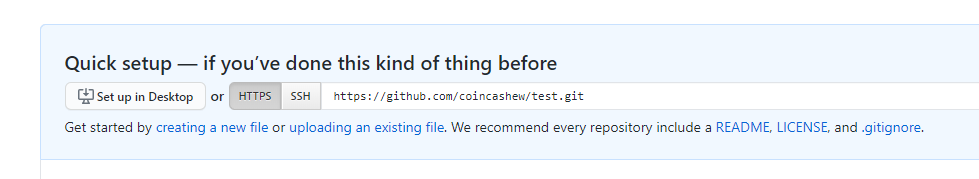
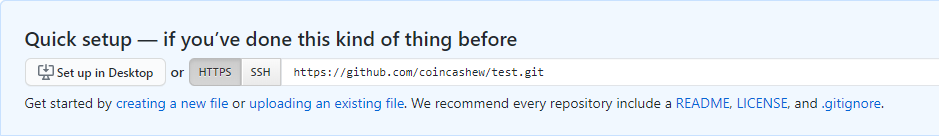
Fix procedure formatting

diff --git a/coins/overview-ada/guide-how-to-build-a-haskell-stakepool-node/part-iv-administration/upgrading-a-node.md b/coins/overview-ada/guide-how-to-build-a-haskell-stakepool-node/part-iv-administration/upgrading-a-node.md
@@ -32,8 +32,7 @@ Do not confuse Andrew Westberg's CNCLI utilities with the [`cncli.sh`](https://c
 
 **To upgrade Andrew Westberg's CNCLI binary:**
 
-1\. In a terminal window, type the following commands:
-
+1. In a terminal window, type the following commands:
 ```bash
 RELEASETAG=$(curl -s https://api.github.com/repos/AndrewWestberg/cncli/releases/latest | jq -r .tag_name)
 VERSION=$(echo ${RELEASETAG} | cut -c 2-)
@@ -42,8 +41,7 @@ curl -sLJ https://github.com/AndrewWestberg/cncli/releases/download/${RELEASETAG
 sudo tar xzvf /tmp/cncli-${VERSION}-x86_64-unknown-linux-gnu.tar.gz -C /usr/local/bin/
 ```
 
-2\. To confirm that the new version of the CNCLI binary is installed, type:
-
+2. To confirm that the new version of the CNCLI binary is installed, type:
 ```
 cncli -V
 ```
@@ -60,48 +58,41 @@ In the [Common `env`](https://cardano-community.github.io/guild-operators/Script
 
 **To upgrade the Guild LiveView tool manually:**
 
-1\. To navigate to the folder where Guild LiveView is located, type the following command in a terminal window:
-
+1. To navigate to the folder where Guild LiveView is located, type the following command in a terminal window:
 ```bash
 cd ${NODE_HOME}
 ```
 
-2\. To back up existing Guild LiveView script files, type:
-
+2. To back up existing Guild LiveView script files, type:
 ```bash
 mv gLiveView.sh gLiveView.sh.bak
 mv env env.bak
 ```
 
-3\. To download the latest Guild LiveView script files, type:
-
+3. To download the latest Guild LiveView script files, type:
 ```bash
 curl -s -o gLiveView.sh https://raw.githubusercontent.com/cardano-community/guild-operators/master/scripts/cnode-helper-scripts/gLiveView.sh
 curl -s -o env https://raw.githubusercontent.com/cardano-community/guild-operators/master/scripts/cnode-helper-scripts/env
 ```
 
-4\. To set file permissions on the `gLiveView.sh` file that you downloaded in step 3, type:
-
+4. To set file permissions on the `gLiveView.sh` file that you downloaded in step 3, type:
 ```bash
 chmod 755 gLiveView.sh
 ```
 
-5\. To set the `CONFIG` and `SOCKET` user variables in the `env` file that you downloaded in step 3, type:
-
+5. To set the `CONFIG` and `SOCKET` user variables in the `env` file that you downloaded in step 3, type:
 ```bash
 sed -i env \
     -e "s/\#CONFIG=\"\${CNODE_HOME}\/files\/config.json\"/CONFIG=\"\${NODE_HOME}\/mainnet-config.json\"/g" \
     -e "s/\#SOCKET=\"\${CNODE_HOME}\/sockets\/node0.socket\"/SOCKET=\"\${NODE_HOME}\/db\/socket\"/g"
 ```
-
 {% hint style="info" %}
 For details on setting the `NODE_HOME` environment variable, see the topic [Installing Cabal and GHC](../part-i-installation/installing-cabal-and-ghc.md)
 {% endhint %}
 
-6\. As needed to configure Guild LiveView for your stake pool, use a text editor to transfer additional user variable definitions from the `env.bak` file that you created in step 2 to the `env` file that you downloaded in step 3.
+6. As needed to configure Guild LiveView for your stake pool, use a text editor to transfer additional user variable definitions from the `env.bak` file that you created in step 2 to the `env` file that you downloaded in step 3.
 
-7\. To test the upgrade, type:
-
+7. To test the upgrade, type:
 ```bash
 gLiveView.sh
 ```
@@ -121,7 +112,6 @@ _Table 1 Current Cardano Node Version Requirements_
 **To upgrade the GHCup installer for GHC and Cabal to the latest version:**
 
 - In a terminal window, type:
-
 ```
 ghcup upgrade
 ghcup --version
@@ -130,7 +120,6 @@ ghcup --version
 **To install other GHC versions:**
 
 - In a terminal window, type the following commands where `<GHCVersionNumber>` is the GHC version that you want to install and use:
-
 ```
 ghcup install ghc <GHCVersionNumber>
 ghcup set ghc <GHCVersionNumber>
@@ -140,7 +129,6 @@ ghc --version
 **To install other Cabal versions:**
 
 - In a terminal window, type the following commands where `<CabalVersionNumber>` is the Cabal version that you want to install and use:
-
 ```
 ghcup install cabal <CabalVersionNumber>
 ghcup set cabal <CabalVersionNumber>

diff --git a/coins/overview-ada/guide-how-to-build-a-haskell-stakepool-node/part-v-tips/uploading-pool-metadata-to-github.md b/coins/overview-ada/guide-how-to-build-a-haskell-stakepool-node/part-v-tips/uploading-pool-metadata-to-github.md
@@ -1,53 +1,32 @@
 # Uploading Pool Metadata to GitHub
 
-To host the file containing metadata for your pool on GitHub:
+**To host the file containing metadata for your pool on GitHub:**
 
-1. Sign up for a Github account by visiting [https://github.com/](https://github.com)
+1. Sign up for a [GitHub](https://github.com) account.
 2. Create a **new repository** with a short name
-3. Click Get started by "**creating a new file**"
-
-![](../../../../.gitbook/assets/git1.png)
-
-4\. Enter your file name as **poolMetaData.json** and paste in your **json **content.
-
-![](../../../../.gitbook/assets/git2.png)
-
-5\. Click **Commit new file**
-
-![](../../../../.gitbook/assets/git3.png)
-
-6\. Click your new file's name
-
-7\. Click on **Raw button**
-
-8\. Copy the URL into your clipboard
-
-> Example: [https://raw.githubusercontent.com/coincashew/test/master/poolMetaData.json](https://raw.githubusercontent.com/coincashew/test/master/poolMetaData.json)
-
-9\. The URL must be shorter than 64 characters. Use [https://git.io/](https://git.io) to shorten it.
-
-> Example:\
-> [https://git.io/JUcnl](https://git.io/JUcnl)
-
-10\. Use this tinyurl URL`--metadata-url` in your stakepool registration transaction.
-
-11\. Download your json with `wget` from your git.io url
-
+3. Click Get started by "**creating a new file**"  
+![](../../../../.gitbook/assets/git1.png)  
+4. Enter your file name as **poolMetaData.json** and paste in your JSON content.  
+![](../../../../.gitbook/assets/git2.png)  
+5. Click **Commit New File**  
+![](../../../../.gitbook/assets/git3.png)  
+6. Click your new file's name
+7. Click the **Raw** button.
+8. Copy the URL into your clipboard  
+{% hint style="info" %}
+Example: [https://raw.githubusercontent.com/coincashew/test/master/poolMetaData.json](https://raw.githubusercontent.com/coincashew/test/master/poolMetaData.json)
+{% endhint %}  
+9. If the URL that you copied in step 8 is longer than 64 characters, then use [TinyURL](https://tinyurl.com/app) to shorten the URL.  
+10. In your stakepool registration transaction, set the value of the `--metadata-url` parameter to a URL having a length of less than 64 characters.  
+11. On your block producer node, download your JSON file from your git.io URL using the `wget` command:
 ```bash
 cd $NODE_HOME
 wget -O poolMetaData.json <your git.io link>
-```
-
+```  
 {% hint style="info" %}
-This step may be required because git.io may change the json file by removing spaces and new lines.
+git.io may change your JSON file by removing spaces and new lines. Download your JSON file to ensure that the metadata hash you calculate in step 12 is correct.
 {% endhint %}
-
-12\. Generate the updated pool metadata hash
-
-{% tabs %}
-{% tab title="block producer node" %}
+12. On your block producer node, generate the updated pool metadata hash.  
 ```bash
 cardano-cli stake-pool metadata-hash --pool-metadata-file poolMetaData.json > poolMetaDataHash.txt
 ```
-{% endtab %}
-{% endtabs %}

diff --git a/coins/overview-ada/guide-how-to-stake-ada.md b/coins/overview-ada/guide-how-to-stake-ada.md
@@ -1,42 +1,31 @@
-# Guide: How to stake ADA
+# Guide: How to Stake ADA
 
-## :confetti_ball: Delegate your stake
+## :confetti_ball: Delegating ADA to a Stake Pool
 
+**To delegate your ADA cryptocurrency to a stake pool:**
+
+1. Install an official wallet for [Cardano](https://cardano.org/) such as [Daedalus](https://daedaluswallet.io) or [Yoroi](https://yoroi-wallet.com)  
 {% hint style="info" %}
-If you had ada in a Daedalus or Yoroi wallet when the balance snapshot was taken at 12.00 UTC on November 29, 2019, you can participate. If not, you will need to wait until mainnet Cardano is upgraded to **Shelley**.
-{% endhint %}
-
-1\. **Install **an official wallet from [Cardano.org](https://staking.cardano.org/en/delegation/)
-
-* Choice of **Daedalus **or **Yoroi**
-
-{% hint style="info" %}
-Yoroi will be the quickest choice and is a lightweight wallet that runs in your browser or mobile phone.
-{% endhint %}
-
-For this example, we will delegate with Yoroi.
-
+Yoroi is quicker to set up than Daedalus. The following steps explain how to delegate using Yoroi.
+{% endhint %}  
 ![](../../.gitbook/assets/ss.PNG)
 
-2\. **Install **Yoroi from your app store
+2. Install Yoroi from your app store
 
-3\. Click on the **Delegation (Simple) tab**
+3. Click on the **Delegation (Simple)** tab.
 
-4\. Search for a Stake Pool you would like to delegate to.
-
+4. Find a pool where you want to delegate your stake.  
 {% hint style="info" %}
-Easily find and browse Stake Pools at [PoolTool](https://pooltool.io) or [ADApools.org](https://adapools.org)
-
-Or watch this youtube video on [How to choose a good Cardano stake pool by Kaizen Crypto.](https://www.youtube.com/watch?v=tgxHfQy7CnU)
+ For example, you can browse stake pools on [PoolTool](https://pooltool.io) or [ADApools.org](https://adapools.org) Web sites. The YouTube video [How to Choose a Good Cardano Stake Pool](https://www.youtube.com/watch?v=tgxHfQy7CnU) by Kaizen Crypto may also offer you some helpful tips.
 {% endhint %}
 
-5\. Click **Delegate**
+5. Click **Delegate**
 
-6\. Enter in your spending password
+6. Type your spending password.
 
-7\. Click **DELEGATE **button
+7. Click the **DELEGATE** button.
 
-8\. :tada: Congratulations. Rewards will start showing up in 2 days, or epochs. Check your rewards on the **Dashboard tab**.
+8. :tada: Congratulations! Rewards will start showing up in two epochs (each epoch is five days in duration). Check your rewards using the **Dashboard** tab.
 
 ## :mag_right: Monitoring your rewards
 

diff --git a/coins/overview-ada/guide-how-to-build-a-haskell-stakepool-node/part-v-tips/setting-up-an-external-passive-relay-node.md b/coins/overview-ada/guide-how-to-build-a-haskell-stakepool-node/part-v-tips/setting-up-an-external-passive-relay-node.md
@@ -100,9 +100,9 @@ cardano-cli version
 
 Using systemd services to run your Cardano nodes offers the following benefits:
 
-1. Auto-start your node when the computer reboots due to maintenance, power outage, etc.
-2. Automatically restart crashed node processes.
-3. Maximize your stake pool up-time and performance.
+- Auto-start your node when the computer reboots due to maintenance, power outage, etc.
+- Automatically restart crashed node processes.
+- Maximize your stake pool up-time and performance.
 
 ```bash
 sudo bash -c "cat << 'EOF' > /etc/systemd/system/cnode.service
@@ -135,9 +135,7 @@ sudo systemctl daemon-reload
 sudo systemctl enable cnode.service
 ```
 
-{% hint style="success" %}
 Nice work. Your node is now managed by the reliability and robustness of systemd. Below are some commands for using systemd.
-{% endhint %}
 
 ###   :white_check_mark: Example systemd Commands
 
@@ -272,13 +270,12 @@ To refresh topology configurations for a node, you need to restart the node.
 
 To restart nodes:
 
-1\. Type:
-
+1. Type:
 ```
 sudo systemctl reload-or-restart cnode
 ```
 
-2\. Repeat step 1 for each node having updated topology configurations.
+2. Repeat step 1 for each node having updated topology configurations.
 
 ## :confetti_ball: Testing the Connection
 

diff --git a/coins/overview-ada/guide-how-to-build-a-haskell-stakepool-node/part-iv-administration/retiring-your-stake-pool.md b/coins/overview-ada/guide-how-to-build-a-haskell-stakepool-node/part-iv-administration/retiring-your-stake-pool.md
@@ -220,10 +220,10 @@ jq -r '.esLState._delegationState._pstate._pParams."'"$(cat stakepoolid.txt)"'" 
 {% endtabs %}
 
 {% hint style="info" %}
-After retirement completes in 2 epochs:
+In two epochs, after retirement completes:
 
-1\. Verify your pool is retired by checking with a block explorer such as [cardanoscan.io](https://cardanoscan.io)
-2\. Your pool deposit of 500 ADA is returned to your stake address (stake.addr) as a reward
-3\. [Claim stake pool rewards](../part-iv-administration/claiming-stake-pool-rewards.md)
-4\. To send funds to another wallet, [submit a transaction](../part-v-tips/submitting-a-simple-transaction.md)
+1. Verify that your pool is retired using a block explorer such as [cardanoscan.io](https://cardanoscan.io)
+2. Your pool deposit of 500 ADA is returned to your stake address (stake.addr) as a reward.
+3. [Claim](../part-iv-administration/claiming-stake-pool-rewards.md) your stake pool rewards.
+4. As needed, [send](../part-v-tips/submitting-a-simple-transaction.md) funds to another wallet.
 {% endhint %}
